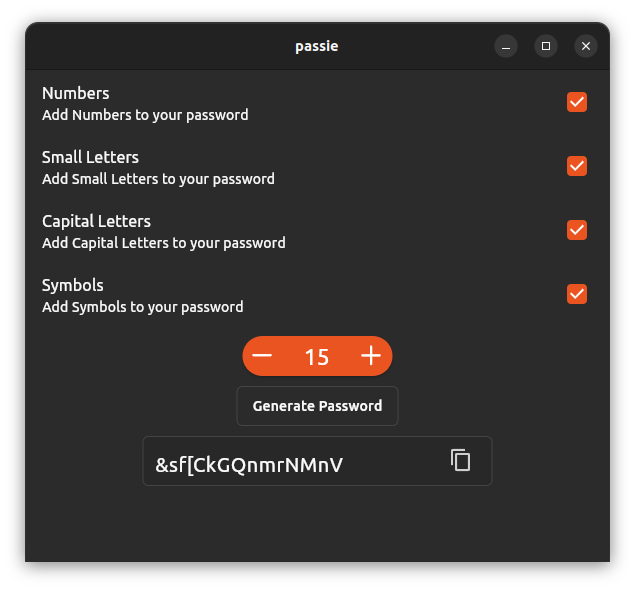
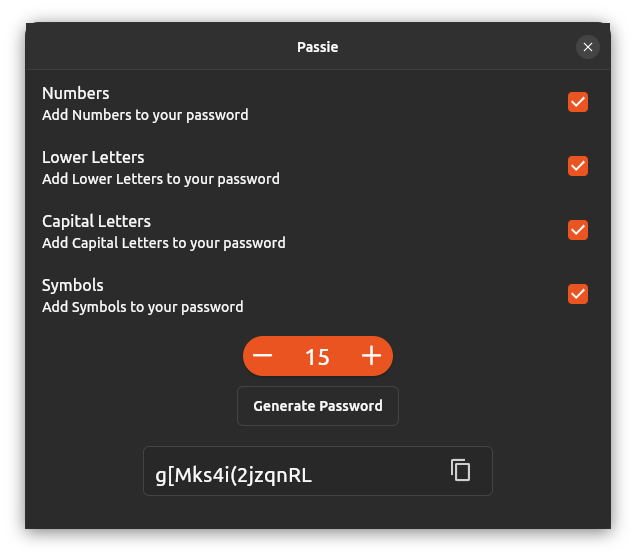
Updated Readme, improved YaruWindowTitleBar

diff --git a/lib/main.dart b/lib/main.dart
@@ -8,9 +8,10 @@ Future<void> main() async {
   WidgetsFlutterBinding.ensureInitialized();
   await windowManager.ensureInitialized();
 
-  WindowOptions windowOptions = const WindowOptions(
+  WindowOptions windowOptions = WindowOptions(
     size: Size(584, 505),
     maximumSize: Size(600, 605),
+    minimumSize: Size(370, 490),
     titleBarStyle: TitleBarStyle.hidden,
   );
   windowManager.waitUntilReadyToShow(windowOptions, () async {

diff --git a/lib/home.dart b/lib/home.dart
@@ -31,6 +31,7 @@ class _HomePageState extends State<HomePage> {
       appBar: const YaruWindowTitleBar(
         isMaximizable: false,
         title: Text('Passie'),
+        isMinimizable: false,
       ),
       body: Column(
         children: [

diff --git a/README.md b/README.md
@@ -4,11 +4,11 @@ Passie is a password generator built with flutter, and yaru widgets.
 |![](screenshots/screenshotofpassie.png)|
 
 Problems:
-- In some cases you get small letters in the generated password even if you de-select it
+- In some cases you get small letters in the generated password even if you de-select it(fixed)
 
 Plans:
 - Some Design Improvements
-- Ditch gtk-header-bar for the YaruWindowTitleBar 
+- Ditch gtk-header-bar for the YaruWindowTitleBar (did it)
 - Get rounded corners(with handy_window)
 - Publish on Snap Store
 - Make the app respect the accent colours(it already respects dark/light mode)
